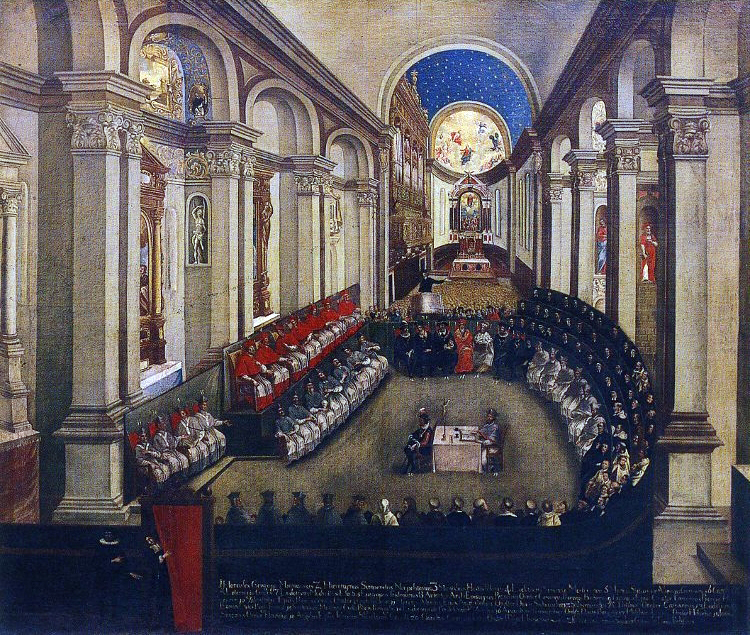
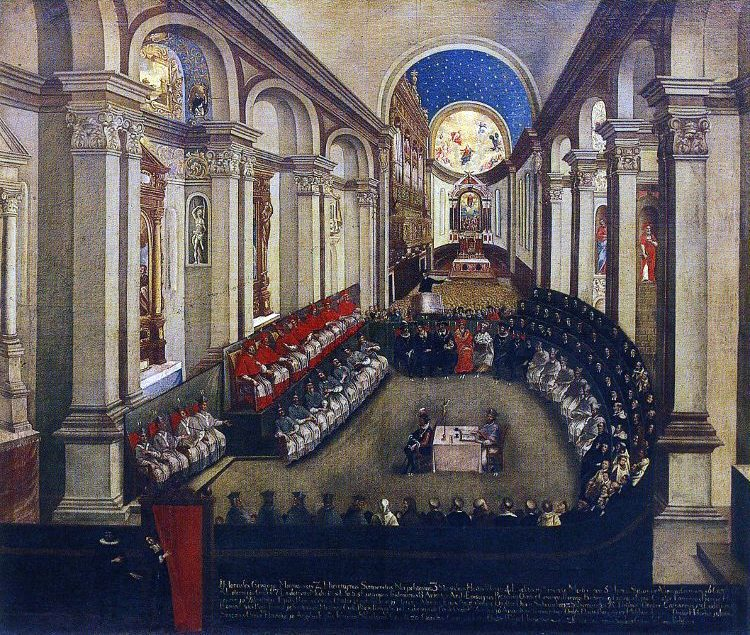
fix: update image credits description and recompress church-history image

diff --git a/public/guides/CREDITS.md b/public/guides/CREDITS.md
@@ -1,6 +1,6 @@
 # Image credits — Topic guides
 
-Artwork shown at the top of each topic guide (`/{guide-key}`). All are public-domain paintings from Wikimedia Commons, downloaded at 960px wide (the Council of Trent at its original 750px). Alt text and captions are in `src/data/guides/images.ts`.
+Artwork shown at the top of each topic guide (`/{guide-key}`). All are public-domain paintings from Wikimedia Commons, downloaded at 960px wide (the Council of Trent at its original 750px, recompressed at JPEG quality 82). Alt text and captions are in `src/data/guides/images.ts`.
 
 | File | Source | Author | Licence |
 | --- | --- | --- | --- |
